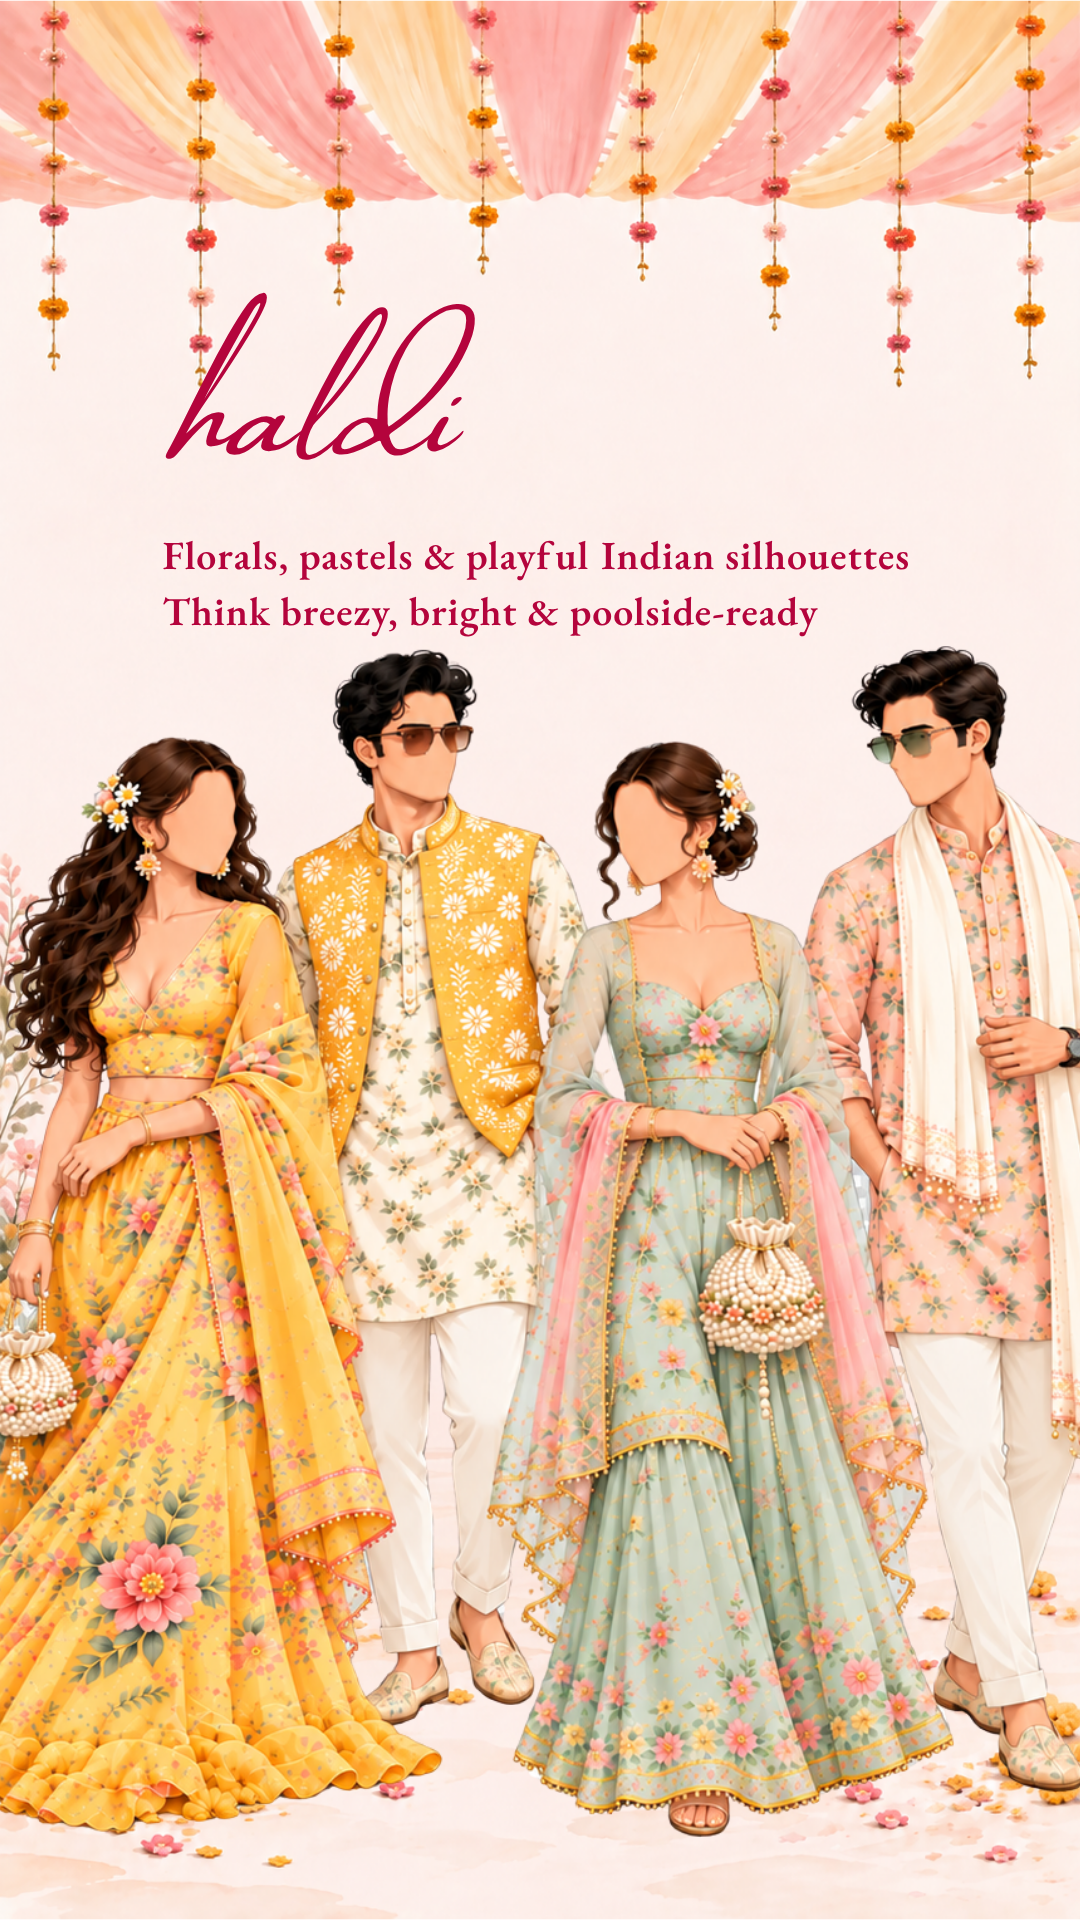
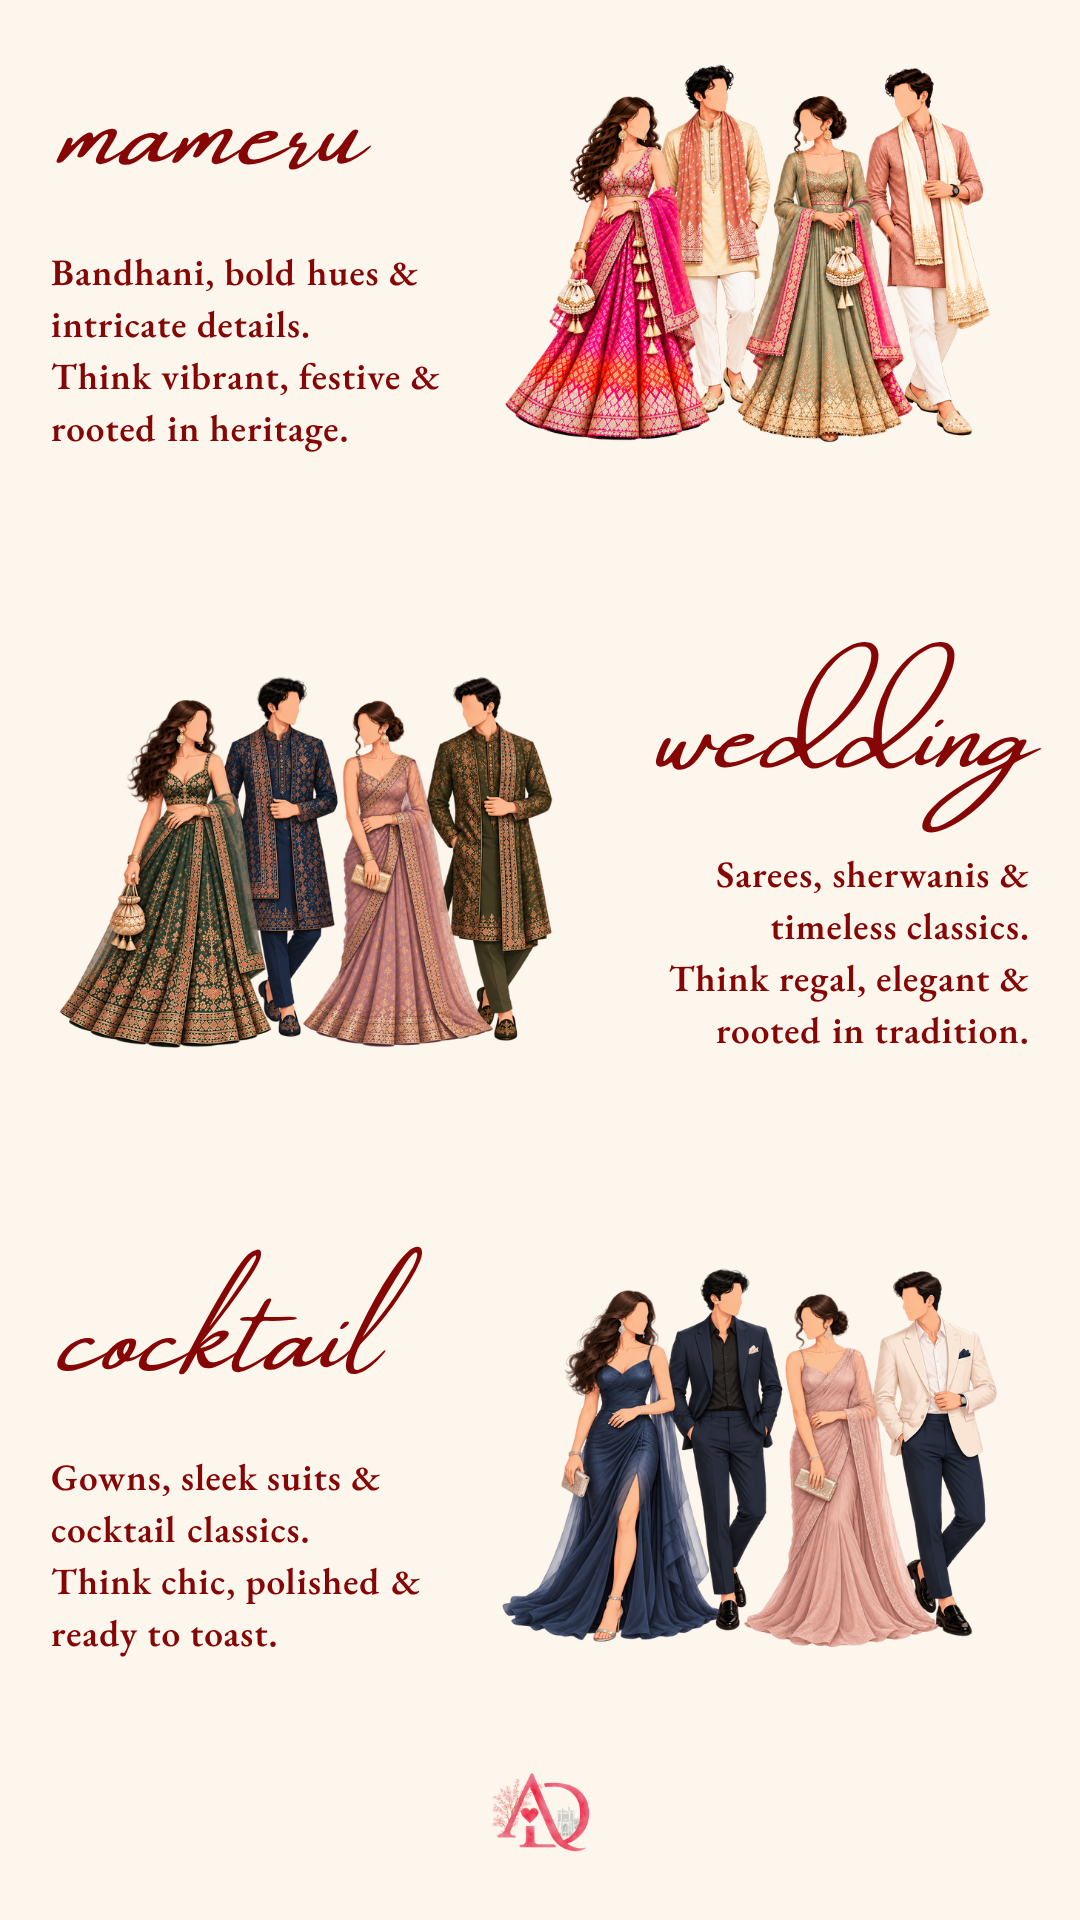
Condense the phone Wardrobe Planner to two pages.
The new two-page layout covers all five events, so the old six pages are removed.

diff --git a/src/components/opening/welcome-assets.ts b/src/components/opening/welcome-assets.ts
@@ -36,14 +36,10 @@ export const WEDDING_EVENTS_MOBILE_PAGES = [
   `/images/events/mobile/page-5.png?events-20261003a`,
 ] as const;
 
-/** Wardrobe Planner — ordered phone panels from Desktop “Wardrobe Planner” (1→6). */
+/** Wardrobe Planner — phone panels from Desktop “Wardrobe Planner/Wardrobe Planner” (1→2). */
 export const WARDROBE_PLANNER_MOBILE_PAGES = [
-  `/images/wardrobe/mobile/page-1.png?wardrobe-20261004a`,
-  `/images/wardrobe/mobile/page-2.png?wardrobe-20261004a`,
-  `/images/wardrobe/mobile/page-3.png?wardrobe-20261004a`,
-  `/images/wardrobe/mobile/page-4.png?wardrobe-20261004a`,
-  `/images/wardrobe/mobile/page-5.png?wardrobe-20261004a`,
-  `/images/wardrobe/mobile/page-6.png?wardrobe-20261004b`,
+  `/images/wardrobe/mobile/page-1.png?wardrobe-20261005b`,
+  `/images/wardrobe/mobile/page-2.png?wardrobe-20261005b`,
 ] as const;
 
 /** Wedding Events — ordered desktop panels from Desktop “Events desktop” (8→12). */

diff --git a/src/components/opening/WardrobePlanner.tsx b/src/components/opening/WardrobePlanner.tsx
@@ -12,7 +12,7 @@ type WardrobePlannerProps = {
   onClose: () => void;
 };
 
-/** Full-page Wardrobe Planner sequence (phone only for now: 1→6). */
+/** Full-page Wardrobe Planner sequence (phone only for now). */
 export function WardrobePlanner({
   open,
   revealed = true,
